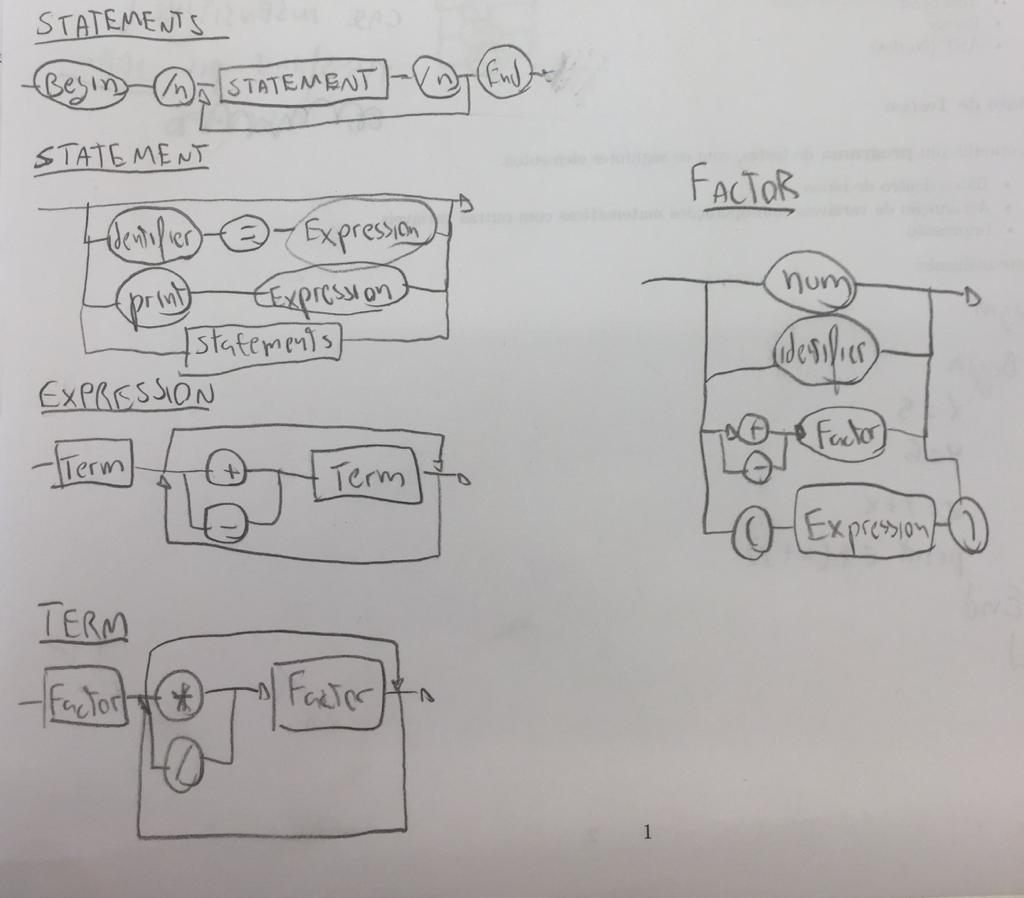
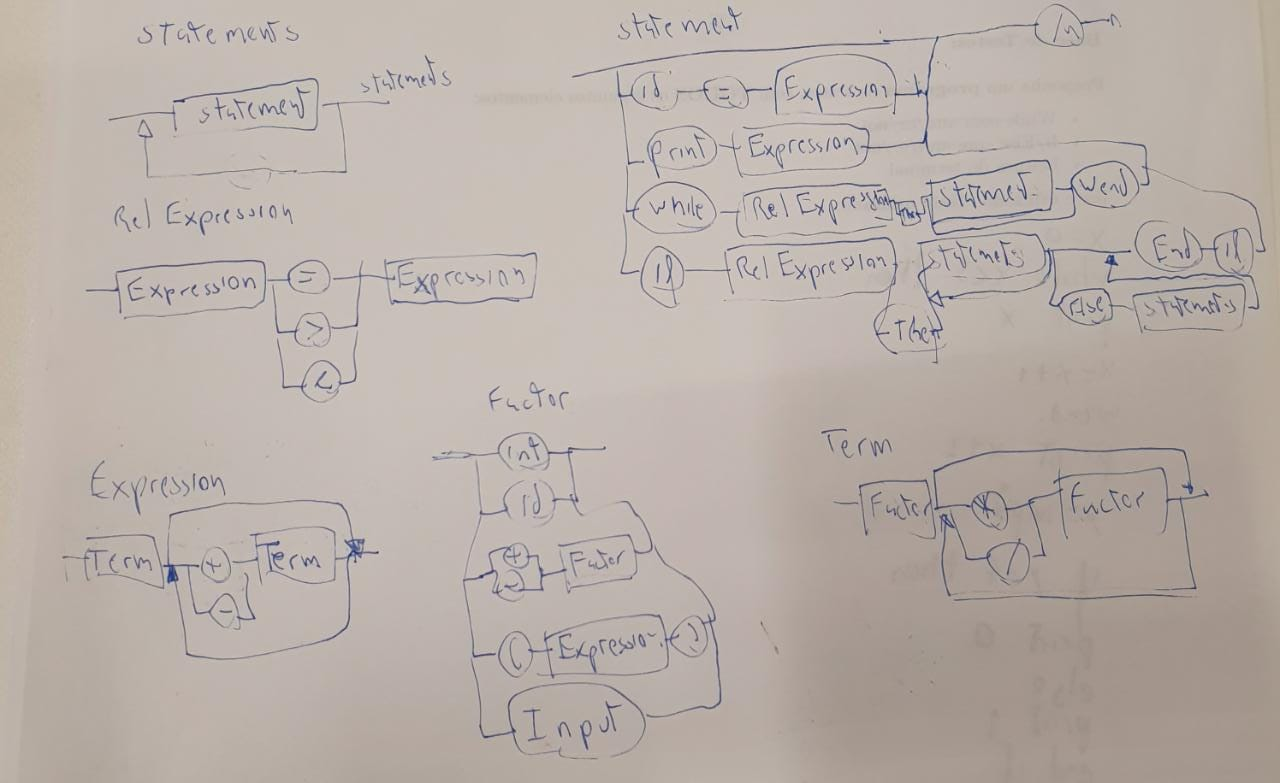
v2.2 pronta

diff --git a/Parser.py b/Parser.py
@@ -5,36 +5,18 @@ from Node import *
 
 class Parser:
     def parseStatements():
-        Parser.line = 0
-
-        if Parser.tokens.actual.type != 'BEGIN':
-            raise Exception("Expecting a BEGIN.")
-        Parser.tokens.selectNext()
-
-        if Parser.tokens.actual.type != 'BREAK':
-            raise Exception("You didnt quebrate the line. Line: {0}".format(str(Parser.line)))
-        Parser.tokens.selectNext()
-
-        Parser.line +=1
+        
         
         children = []
-        while Parser.tokens.actual.type != 'END':
+
+        while Parser.tokens.actual.type != 'EOF' and Parser.tokens.actual.type != 'WEND' and Parser.tokens.actual.type != 'END' and Parser.tokens.actual.type != 'ELSE':
             children.append(Parser.parseStatement())
-            if Parser.tokens.actual.type != 'BREAK':
-                print(Parser.tokens.actual.type)
-                raise Exception("You didnt quebrate the line. Line: {0}".format(str(Parser.line)))
             Parser.line +=1
             Parser.tokens.selectNext()
-        Parser.tokens.selectNext()
 
-        # if Parser.tokens.actual.type != 'BREAK':
-        #     raise Exception("You didnt quebrate the line. Line: {0}".format(str(Parser.line)))
-        # Parser.tokens.selectNext()
-        
         return Statements("statements", children)
 
     def parseStatement():
-        res = NoOp('', [])
 
         if Parser.tokens.actual.type == 'ID':
            child0 = Id(Parser.tokens.actual.value, [])
@@ -42,20 +24,100 @@ class Parser:
            if Parser.tokens.actual.value != '=':
                raise Exception("Excpected a '=' here. Line: {0}".format(str(Parser.line)))
            Parser.tokens.selectNext()
-           res = Assignment("=", [child0, Parser.parseExpression()])
+           return Assignment("=", [child0, Parser.parseExpression()])
         
-        elif Parser.tokens.actual.type == 'PRINT':
+        if Parser.tokens.actual.type == 'PRINT':
             Parser.tokens.selectNext()
-            res = Print("print", [Parser.parseExpression()])
+            return Print("print", [Parser.parseExpression()])
 
-        elif Parser.tokens.actual.type == 'BEGIN':
-            res = Parser.parseStatements()
+        if Parser.tokens.actual.type == 'WHILE':
+            Parser.tokens.selectNext()
+            child0 = Parser.parseRelExpression()
+
+            if Parser.tokens.actual.type != 'THEN':
+                raise Exception("Cade o THEN amigao? Line: "+str(Parser.line))
+            Parser.tokens.selectNext()
+
+            if Parser.tokens.actual.type != 'BREAK':
+                raise Exception("Faltou quebrar a linha. Line: "+str(Parser.line))
+            Parser.line += 1
+            Parser.tokens.selectNext()
+
+            res = WhileNode("while", [child0, Parser.parseStatements()])
+            if Parser.tokens.actual.type != 'WEND':
+                raise Exception("Cade o WEND amigao? Line: "+str(Parser.line))
+            Parser.tokens.selectNext()
+
+            # if Parser.tokens.actual.type != 'BREAK':
+            #     raise Exception("Faltou quebrar a linha. Line: "+str(Parser.line))
+            # Parser.line += 1
+            # Parser.tokens.selectNext()
+
+            return res
+
+        if Parser.tokens.actual.type == 'IF':
+            Parser.tokens.selectNext()
+            children = [Parser.parseRelExpression()]
+            
+            if Parser.tokens.actual.type != 'THEN':
+                raise Exception("Cade o THEN amigao? Line: "+str(Parser.line))
+            Parser.tokens.selectNext()
+
+            if Parser.tokens.actual.type != 'BREAK':
+                raise Exception("Faltou quebrar a linha. Line: "+str(Parser.line))
+            Parser.line += 1
+            Parser.tokens.selectNext()
+
+            children.append(Parser.parseStatements())
+
+            if Parser.tokens.actual.type == "ELSE":
+                Parser.tokens.selectNext()
+
+                if Parser.tokens.actual.type != 'BREAK':
+                    raise Exception("Faltou quebrar a linha. Line: "+str(Parser.line))
+                Parser.line += 1
+                Parser.tokens.selectNext()
+
+                children.append(Parser.parseStatements())
+            
+            if Parser.tokens.actual.type != 'END':
+                raise Exception("Cade o END amigao? Line: "+str(Parser.line))
+            Parser.tokens.selectNext()
+
+            if Parser.tokens.actual.type != 'IF':
+                raise Exception("Cade o IF amigao? Line: "+str(Parser.line))
+            Parser.tokens.selectNext()
+
+            # if Parser.tokens.actual.type != 'BREAK':
+            #     raise Exception("Faltou quebrar a linha. Line: "+str(Parser.line))
+            # Parser.line += 1
+            # Parser.tokens.selectNext()
+
+            return IfNode("if", children)
+
         
-        return res
+        
+        return NoOp('', [])
         
             
+    def parseRelExpression():
+        child0 = Parser.parseExpression()
 
+        if Parser.tokens.actual.type == 'EQUAL':
+            Parser.tokens.selectNext()
+            return BinOp("=", [child0, Parser.parseExpression()])
+        
+        if Parser.tokens.actual.type == 'BIGGER':
+            Parser.tokens.selectNext()
+            return BinOp(">", [child0, Parser.parseExpression()])
+        
+        if Parser.tokens.actual.type == 'SMALLER':
+            Parser.tokens.selectNext()
+            return BinOp("<", [child0, Parser.parseExpression()])
+        
+        raise Exception("Unexpected token (not =, > or <)")
 
+        
 
     def parseExpression():
         result = Parser.parseTerm()
@@ -102,17 +164,23 @@ class Parser:
             actual = Parser.tokens.selectNext()
             return result
 
-        elif actual.type == 'PLUS':
+        if actual.type == 'PLUS':
             actual = Parser.tokens.selectNext()
             child = Parser.parseFactor()
             return UnOp("+", [child])
 
-        elif actual.type == 'MINUS':
+        if actual.type == 'MINUS':
             actual = Parser.tokens.selectNext()
             child = Parser.parseFactor()
             return UnOp("-", [child])
+        
+        if actual.type == 'INPUT':
+            res = Input(actual.value, [])
+            actual = Parser.tokens.selectNext()
+            return res
+            
 
-        elif actual.type == 'OPEN_PAR':
+        if actual.type == 'OPEN_PAR':
             actual = Parser.tokens.selectNext()
             result = Parser.parseExpression()
             if Parser.tokens.actual.type == 'CLOSE_PAR':
@@ -121,8 +189,8 @@ class Parser:
             else:
                 raise Exception("You did not fechate the parentesis! Line: {0}".format(str(Parser.line)))   
 
-        else:
-            raise Exception("Unexpected token. Line: {0}".format(str(Parser.line)))    
+        
+        raise Exception("Unexpected token '{0}'. Line: {1}".format(Parser.tokens.actual, str(Parser.line)))    
 
 
     def run(code):
@@ -130,6 +198,8 @@ class Parser:
         Parser.line = 0
         Parser.tokens.selectNext()
         res = Parser.parseStatements()
+
+            
         if Parser.tokens.actual.type == "EOF":
             return res
         else:

diff --git a/Node.py b/Node.py
@@ -16,6 +16,12 @@ class BinOp(Node):
             return self.children[0].Evaluate(table) * self.children[1].Evaluate(table)
         if self.value == '/':
             return self.children[0].Evaluate(table) // self.children[1].Evaluate(table)
+        if self.value == '=':
+            return self.children[0].Evaluate(table) == self.children[1].Evaluate(table)
+        if self.value == '>':
+            return self.children[0].Evaluate(table) > self.children[1].Evaluate(table)
+        if self.value == '<':
+            return self.children[0].Evaluate(table) < self.children[1].Evaluate(table)
 
 
         
@@ -76,3 +82,31 @@ class NoOp(Node):
         self.value = value
         self.children = children
 
+class WhileNode(Node):
+    def __init__(self, value, children):
+        self.value = value
+        self.children = children
+
+    def Evaluate(self, table):
+        while self.children[0].Evaluate(table):
+            self.children[1].Evaluate(table)
+        
+class IfNode(Node):
+    def __init__(self, value, children):
+        self.value = value
+        self.children = children
+
+    def Evaluate(self, table):
+        if self.children[0].Evaluate(table):
+            self.children[1].Evaluate(table)
+        else:
+            if len(self.children) == 3:
+                self.children[2].Evaluate(table)
+
+class Input(Node):
+    def __init__(self, value, children):
+        self.value = value
+        self.children = children
+
+    def Evaluate(self, table):
+        return int(input())

diff --git a/Tokenizer.py b/Tokenizer.py
@@ -5,7 +5,7 @@ class Tokenizer:
         self.origin = origin
         self.position = 0
         self.actual = None
-        self.reserved = ["PRINT", "BEGIN", "END"]
+        self.reserved = ["PRINT", "BEGIN", "END", "IF", "WHILE", "ELSE", "INPUT", "WEND", "THEN"]
 
     def selectNext(self):
 
@@ -61,7 +61,19 @@ class Tokenizer:
             return self.actual
 
         if pseudotoken == '=':
-            self.actual = Token('ASSIGN', '=')
+            self.actual = Token('EQUAL', '=')
+            self.position += 1
+            # print(self.actual)
+            return self.actual
+
+        if pseudotoken == '>':
+            self.actual = Token('BIGGER', '>')
+            self.position += 1
+            # print(self.actual)
+            return self.actual
+
+        if pseudotoken == '<':
+            self.actual = Token('SMALLER', '<')
             self.position += 1
             # print(self.actual)
             return self.actual
@@ -99,12 +111,4 @@ class Tokenizer:
             return self.actual
 
 
-        raise Exception("Token '{0}' not known.",format(pseudotoken))
-
-
-        
-
-# toks = Tokenizer("11+12   -   4+    100")
-
-# for i in range(9):
-#     toks.selectNext()
+        raise Exception("Token '{0}' not known.".format(pseudotoken))

diff --git a/SymbolTable.py b/SymbolTable.py
@@ -4,7 +4,7 @@ class SymbolTable:
     def getSymbol(self, symbol):
         symbol = symbol.upper()
         value = self.table[symbol]
-        if value:
+        if value != None:
             return value
         raise Exception("Symbol '{0}' not declared.".format(symbol))
 

diff --git a/main.py b/main.py
@@ -5,7 +5,7 @@ import sys
 
 
 
-with open(sys.argv[1], "r") as f: ## Guilherme, para debug use o input da pasta logicomp!!!!       
+with open(sys.argv[1], "r") as f:       
     code = f.read()
     # print(PrePro.filter(code))
     tree = Parser.run(code)
